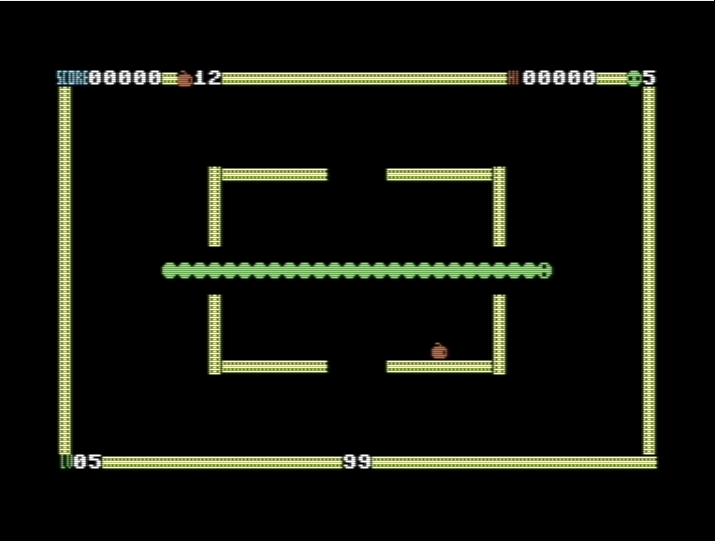
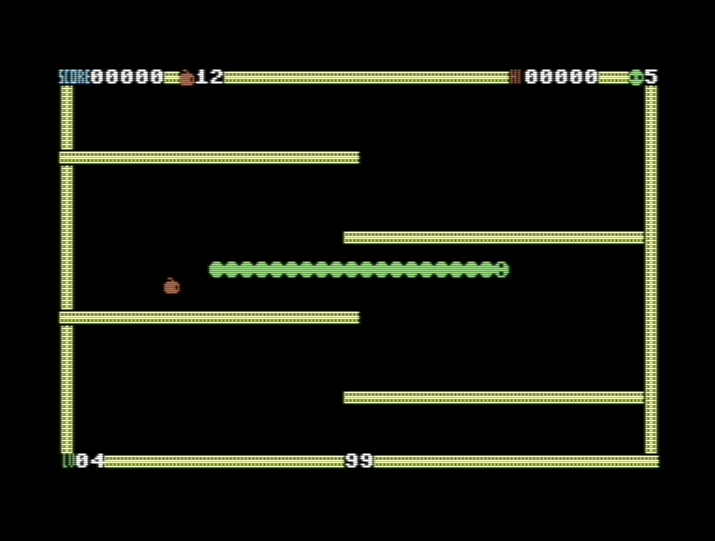
Magic columns in level 4

Changed region(s): [[0.0615, 0.1183, 0.9231, 0.8872]]

diff --git a/src/games/snake/levels.h b/src/games/snake/levels.h
@@ -35,7 +35,7 @@ const uint8_t level_walls[] =
         XSize/2,        YSize-1-YSize/4,      YSize/4,
     0,
         
-// level 6 -> 4 (48)
+// level 4 (48)
     0,
     2,
         XSize/3,                      0,    4*YSize/5,
@@ -44,7 +44,7 @@ const uint8_t level_walls[] =
         1,1,XSize/8,YSize/8,DEADLY,
         XSize-1-XSize/8,YSize-1-YSize/8,XSize/8,YSize/8,DEADLY,
 
-// level 4 -> 5 (67)
+// level 5 (67)
     4,
              0,                 YSize/5,      XSize/2,
        XSize-1-XSize/2,       2*YSize/5,      XSize/2,
@@ -53,7 +53,7 @@ const uint8_t level_walls[] =
     0,
     0,
 
-// level 5 -> 6 (82) (Z88DK partial work-around for preprocessor bug on division with integer litterals)
+// level 6 (82) (Z88DK partial work-around for preprocessor bug on division with integer litterals)
     4,
         ((uint8_t) (XSize/4)),                ((uint8_t) (YSize/4)),              ((uint8_t) (XSize/5))+1,
         XSize-((uint8_t) (XSize/4))-((uint8_t) (XSize/5)),        ((uint8_t) (YSize/4)),      ((uint8_t) (XSize/5))+1, // (1)
@@ -106,13 +106,13 @@ const uint8_t level_walls[] =
         2,YSize-2-YSize/4,XSize/4,YSize/4,WALL,
         XSize-2-XSize/4,YSize-2-YSize/4,XSize/4,YSize/4,WALL,
         XSize-2-XSize/4,2,XSize/4,YSize/4,WALL,
-// level 13 -> 12(204)
+// level 12(204)
     0,
     2,
          XSize/5,                      1,   4*YSize/5,
        4*XSize/5,                      YSize-1-4*YSize/5,   4*YSize/5,
     0,
-// level 12 -> 13 (213)
+// level 13 (213)
     1,
         2,YSize/2-1,XSize-4,
     0,
@@ -230,12 +230,12 @@ const uint8_t horizontal_mines_on_level[] =
             YSize-3,
             YSize/2-3,
             YSize/2+3,
-        4, // 20 -> 21(64)
+        4, // 21(64)
             YSize/2 - 1,
             YSize/2 + 1,
             2,
             YSize-3,
-        2, // 21 -> 22(69)
+        2, // 22(69)
             3,
             YSize - 3,
         2, // 23 (72)

diff --git a/src/games/snake/main.c b/src/games/snake/main.c
@@ -785,9 +785,17 @@ void magic_wall(void)
         break;
         case 4: 
         case 20:
-            build_box_wall(1,1,XSize/8,YSize/8,EXTRA);
-            build_box_wall(XSize-1-XSize/8,YSize-1-YSize/8,XSize/8,YSize/8,EXTRA);
-            spawn_extra(SOME_EXTRA);
+        /*
+        XSize/3,                      0,    4*YSize/5,
+       2*XSize/3,               YSize/5,    4*YSize/5,
+       */
+            // build_box_wall(1,1,XSize/8,YSize/8,EXTRA);
+
+            // build_box_wall(XSize-1-XSize/8,YSize-1-YSize/8,XSize/8,YSize/8,EXTRA);
+            // spawn_extra(SOME_EXTRA);
+            
+            build_magic_column(XSize/3,                      1,    4*YSize/5);
+            build_magic_column(2*XSize/3,               YSize/5,    4*YSize/5);
         break;
         case 8: 
         case 24:
